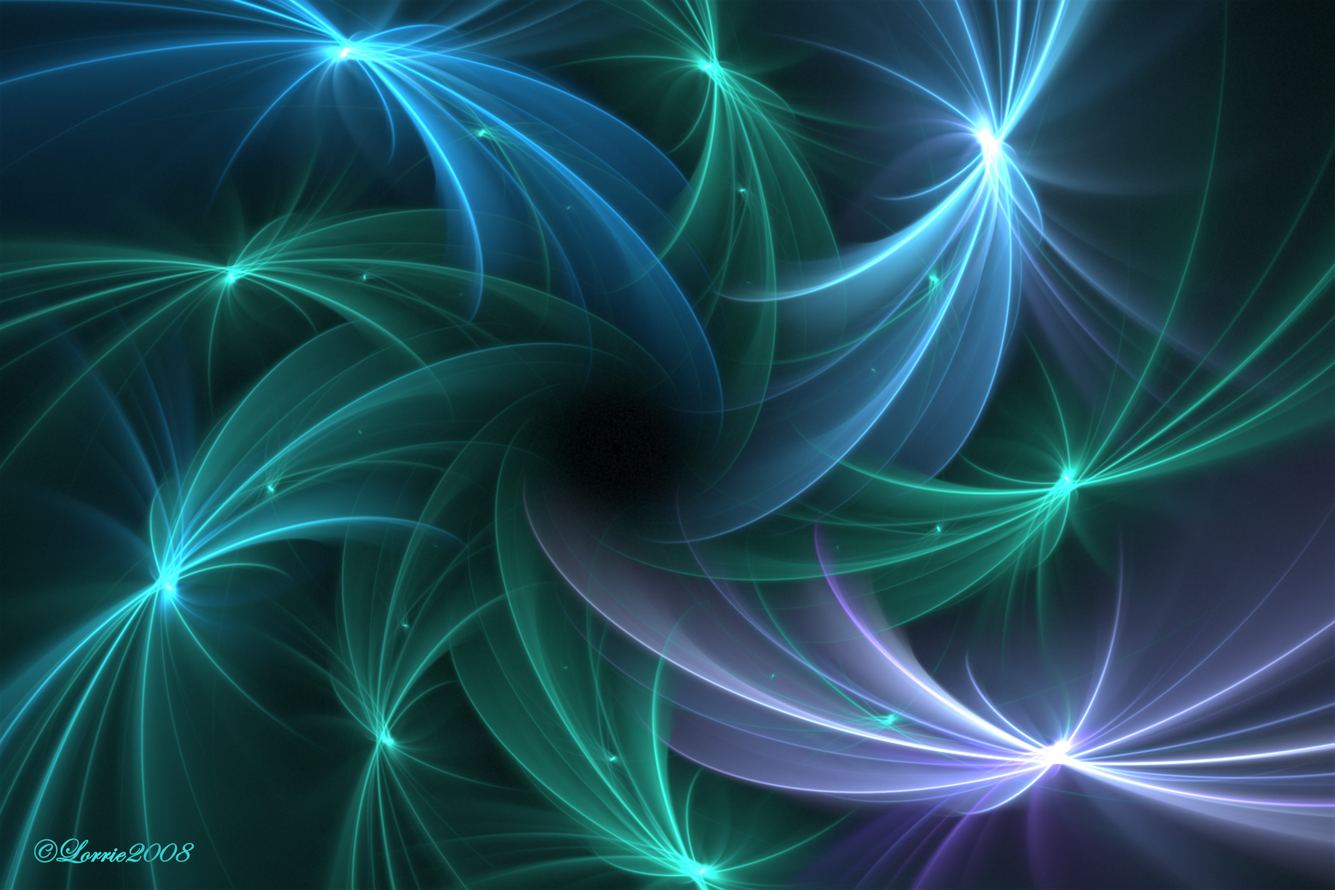
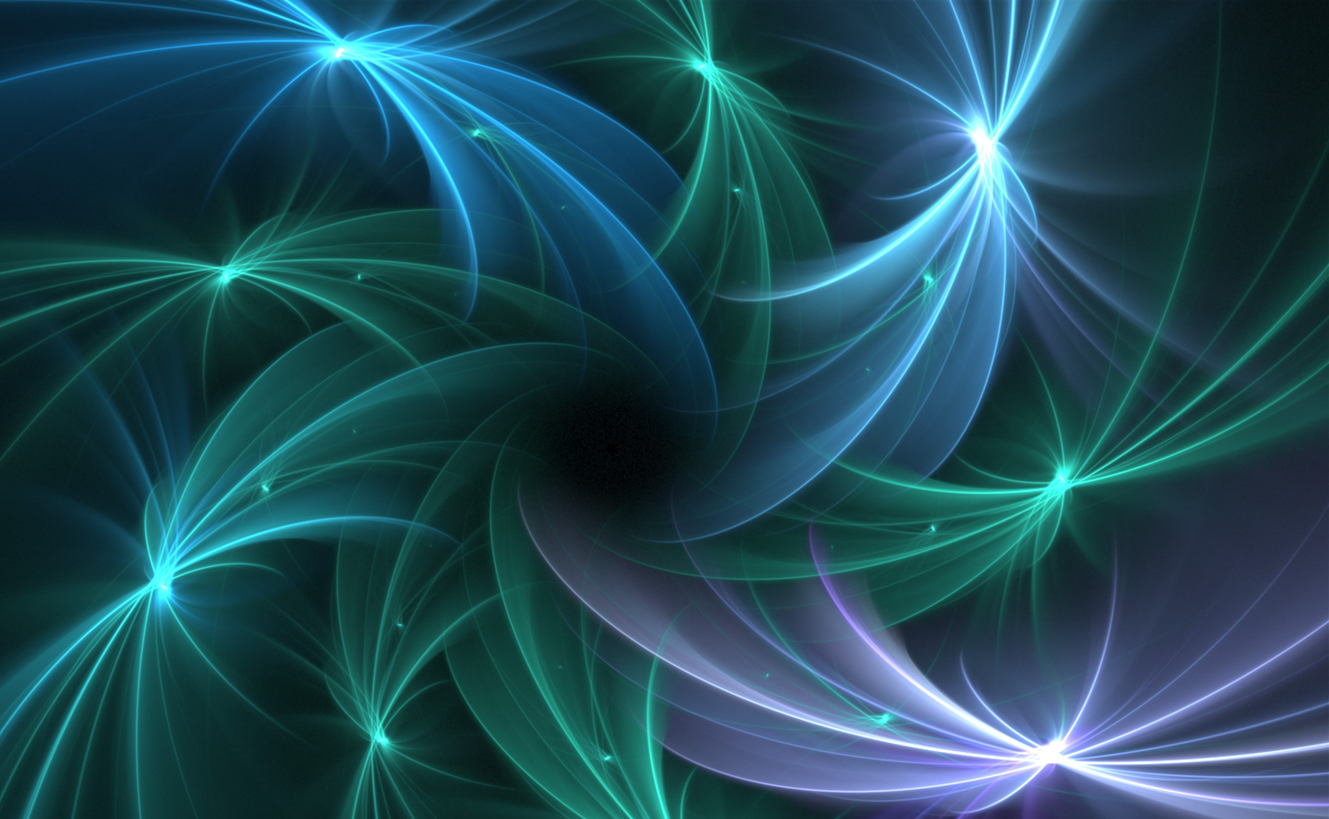
add background image to header

diff --git a/client/src/components/header/header.js b/client/src/components/header/header.js
@@ -1,14 +1,19 @@
 import React from 'react';
-// import Particles from 'react-particles-js'
+// import Particles from 'react-particles-js';
+import { HeaderStyle } from './styles'
 
 export default function Header () {
     return (
-        <div id={'header'}>
-            <p>Hello, 
-                <span>I'm Mariam Adedeji.</span>
-            </p>
-            <p>I'm a full stack web developer.</p>
-            <div> View my work</div>
-        </div>
+        <HeaderStyle id={'header'}>
+            <div>
+                <p>Hello, 
+                    <span>I'm Mariam Adedeji.</span>
+                </p>
+                <p>I'm a full stack web developer.</p>
+                <div> View my work</div>
+            </div>
+
+            
+        </HeaderStyle>
     );
 }

diff --git a/client/src/components/header/styles.js b/client/src/components/header/styles.js
@@ -1,0 +1,9 @@
+import styled from 'styled-components';
+import image from './img/header.jpg'
+
+export const HeaderStyle = styled.div`
+    background-image: url(${image});
+    /* background-repeat: no-repeat; */
+  background-size: cover;
+  height: 40rem;
+`
